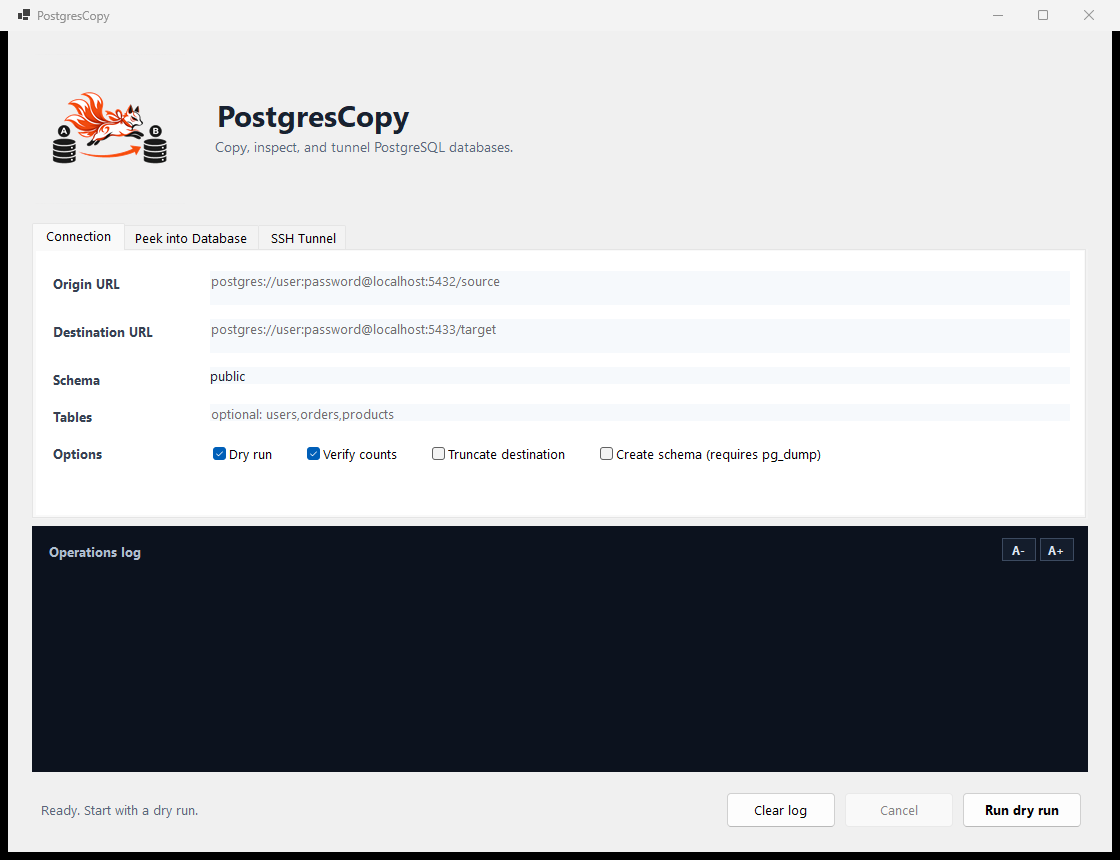
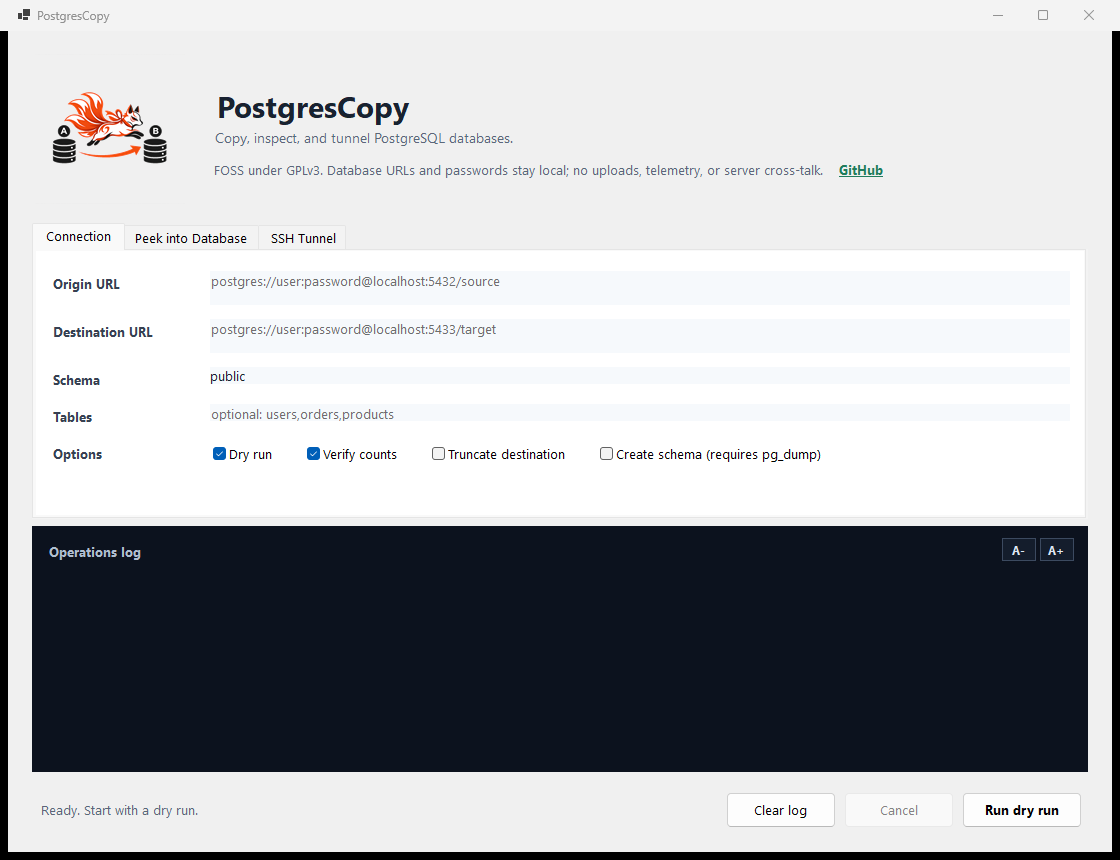
feat: Add privacy note and GitHub link to MainForm for enhanced user transparency

Changed region(s): [[0.1875, 0.0907, 0.7812, 0.2116]]

diff --git a/src/PostgresCopy.Desktop/MainForm.cs b/src/PostgresCopy.Desktop/MainForm.cs
@@ -5,6 +5,7 @@ using PostgresCopy.Cli;
 using PostgresCopy.Config;
 using PostgresCopy.Database;
 using PostgresCopy.Migration;
+using System.Diagnostics;
 using System.Runtime.InteropServices;
 
 namespace PostgresCopy.Desktop;
@@ -19,6 +20,7 @@ public sealed class MainForm : Form
     private static readonly Color AccentColor = Color.FromArgb(32, 125, 92);
     private static readonly Color LogBackColor = Color.FromArgb(12, 18, 30);
     private static readonly Color LogForeColor = Color.FromArgb(221, 231, 242);
+    private const string RepositoryUrl = "https://github.com/soulwax/PGCopy";
 
     // Connection tab
     private readonly TextBox originTextBox = new();
@@ -214,8 +216,8 @@ public sealed class MainForm : Form
             AutoSize = true,
             Dock = DockStyle.Fill,
             ColumnCount = 1,
-            RowCount = 2,
-            Margin = new Padding(0, 43, 0, 0),
+            RowCount = 3,
+            Margin = new Padding(0, 34, 0, 0),
             BackColor = WindowBackColor,
         };
 
@@ -237,12 +239,70 @@ public sealed class MainForm : Form
             Margin = new Padding(1, 0, 0, 0),
         };
 
+        var privacyNote = BuildPrivacyNote();
+
         titleStack.Controls.Add(title, 0, 0);
         titleStack.Controls.Add(subtitle, 0, 1);
+        titleStack.Controls.Add(privacyNote, 0, 2);
 
         header.Controls.Add(logo, 0, 0);
         header.Controls.Add(titleStack, 1, 0);
         return header;
+    }
+
+    private Control BuildPrivacyNote()
+    {
+        var panel = new FlowLayoutPanel
+        {
+            AutoSize = true,
+            FlowDirection = FlowDirection.LeftToRight,
+            WrapContents = true,
+            BackColor = WindowBackColor,
+            Margin = new Padding(1, 12, 0, 0),
+            Padding = Padding.Empty,
+        };
+
+        var note = new Label
+        {
+            Text = "FOSS under GPLv3. Database URLs and passwords stay local; no uploads, telemetry, or server cross-talk.",
+            AutoSize = true,
+            ForeColor = MutedTextColor,
+            Font = new Font(Font.FontFamily, 9.5f, FontStyle.Regular),
+            Margin = new Padding(0, 2, 8, 0),
+        };
+
+        var link = new LinkLabel
+        {
+            Text = "GitHub",
+            AutoSize = true,
+            LinkColor = AccentColor,
+            ActiveLinkColor = Color.FromArgb(23, 90, 67),
+            VisitedLinkColor = AccentColor,
+            Font = new Font(Font.FontFamily, 9.5f, FontStyle.Bold),
+            Margin = new Padding(0, 2, 0, 0),
+        };
+        link.Links.Add(0, link.Text.Length, RepositoryUrl);
+        link.LinkClicked += (_, eventArgs) =>
+        {
+            if (eventArgs.Link?.LinkData is string url)
+                OpenUrl(url);
+        };
+
+        panel.Controls.Add(note);
+        panel.Controls.Add(link);
+        return panel;
+    }
+
+    private static void OpenUrl(string url)
+    {
+        try
+        {
+            Process.Start(new ProcessStartInfo(url) { UseShellExecute = true });
+        }
+        catch
+        {
+            // Opening the repository is a convenience; the app should keep running if Windows blocks it.
+        }
     }
 
     private static TabPage CreateTabPage(string text)

diff --git a/README.md b/README.md
@@ -8,10 +8,6 @@
   <img src="src/PostgresCopy.Desktop/Assets/kitsunedb.png" alt="PostgresCopy logo — a kitsune leaping from database A to database B" width="512" height="512" />
 </p>
 
-<p align="center">
-  <em>Copy a PostgreSQL database into another PostgreSQL database — safely and visibly from a small Windows desktop app.</em>
-</p>
-
 ---
 
 ## Quick Use (TL;DR)
